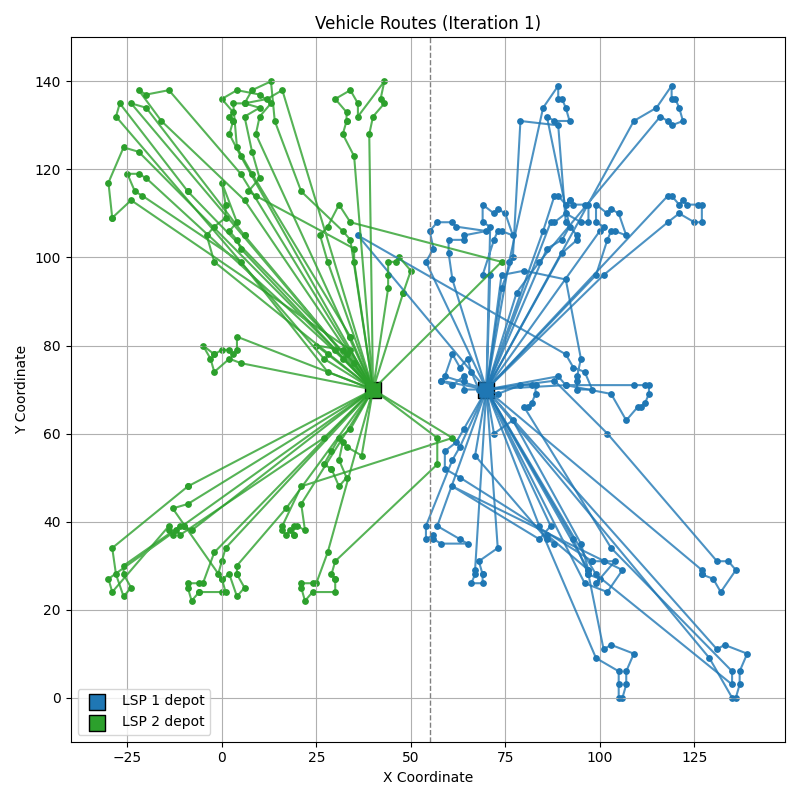
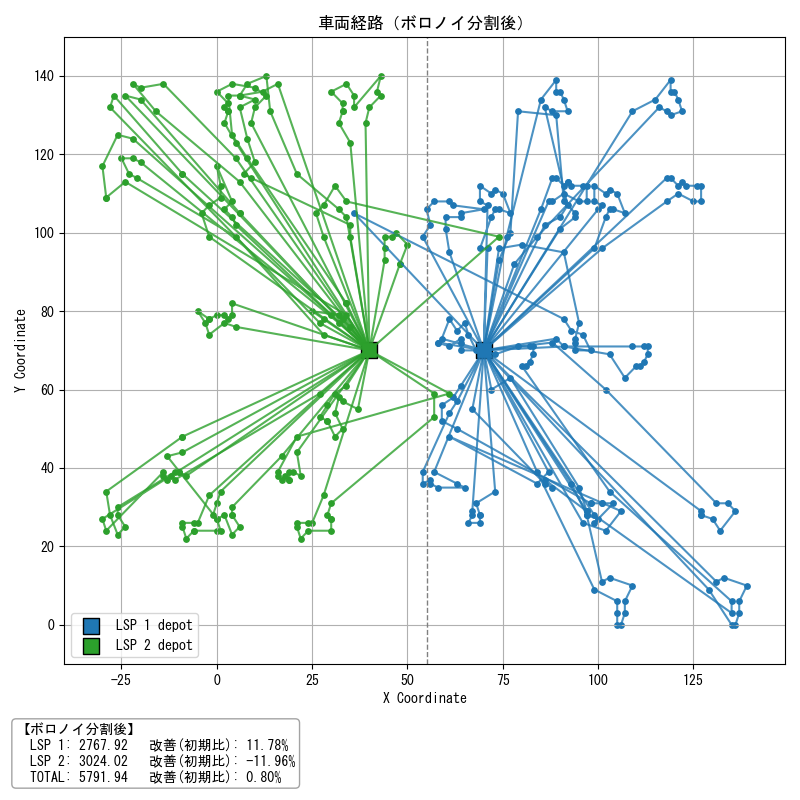
軽微な修正&実験

diff --git a/visualizer.py b/visualizer.py
@@ -1,7 +1,13 @@
 import matplotlib.pyplot as plt
 import numpy as np
 import os
-import shutil  # ★追加
+import shutil
+import json
+import math
+
+plt.rcParams['font.family'] = 'MS Gothic'  # Windowsの場合
+plt.rcParams['axes.unicode_minus'] = False
+plt.rcParams['font.monospace'] = ['MS Gothic']
 
 def plot_routes(customers, routes, depot_id_list, vehicle_num_list, iteration, instance_name="", output_dir="figures"):
     """
@@ -14,59 +20,97 @@ def plot_routes(customers, routes, depot_id_list, vehicle_num_list, iteration, i
     - instance_name: 実験インスタンス名（フォルダ作成用）
     """
 
-    # 各実験ごとにフォルダを作成
-    instance_folder = os.path.join(output_dir, instance_name)
+    # ====== 内部ユーティリティ ======
+    def route_cost(single_route, id2xy):
+        cost = 0.0
+        for k in range(len(single_route) - 1):
+            x1, y1 = id2xy[single_route[k]]
+            x2, y2 = id2xy[single_route[k + 1]]
+            cost += math.hypot(x2 - x1, y2 - y1)
+        return cost
 
-    # ★変更点: 初回保存（iteration==0）のときだけ既存フォルダを全消去→作り直し
+    def company_costs(all_routes, id2xy, veh_num_list):
+        costs = []
+        idx = 0
+        for n in veh_num_list:
+            s = 0.0
+            for _ in range(n):
+                s += route_cost(all_routes[idx], id2xy)
+                idx += 1
+            costs.append(s)
+        return costs, sum(costs)
+
+    def load_step_routes(step_index):
+        base = os.path.join("web_data", instance_name, f"step_{step_index}.json")
+        if not os.path.isfile(base):
+            return None
+        try:
+            with open(base, "r", encoding="utf-8") as f:
+                j = json.load(f)
+            id2 = {c["id"]: (c["x"], c["y"]) for c in j["customers"]}
+            comp_costs, total = company_costs(j["routes"], id2, j.get("vehicle_num_list", vehicle_num_list))
+            return {"company": comp_costs, "total": total}
+        except Exception:
+            return None
+
+    def fmt(v):
+        return f"{v:.2f}"
+
+    def pct(old, new):
+        if old and old > 0:
+            return f"{(old - new) / old * 100:.2f}%"
+        return "—"
+
+    # ====== フォルダ準備（初回のみ全消去） ======
+    instance_folder = os.path.join(output_dir, instance_name)
     if iteration == 0 and os.path.isdir(instance_folder):
         shutil.rmtree(instance_folder)
-
     os.makedirs(instance_folder, exist_ok=True)
 
-    # ID -> 座標辞書を作成
+    # ID -> 座標辞書
     id_to_coord = {c["id"]: (c["x"], c["y"]) for c in customers}
 
-    # 各LSPに異なる色を設定
+    # 色
     colors = ["tab:blue", "tab:green", "tab:red", "tab:orange", "tab:purple", "tab:brown"]
 
-    # 描画準備
+    # ====== 図のセットアップ ======
     plt.figure(figsize=(8, 8))
-    plt.title(f"Vehicle Routes (Iteration {iteration})")
+    if iteration == 0:
+        plt.title("車両経路（初期解）")
+    elif iteration == 1:
+        plt.title("車両経路（ボロノイ分割後）")
+    elif iteration == 2:
+        plt.title("車両経路（自社内GAT実行後）")
+    else:
+        plt.title(f"Vehicle Routes (Iteration {iteration})")
 
-    # --- 経路描画 ---
+    # 経路描画
     vehicle_index = 0
     for lsp_index, num_vehicles in enumerate(vehicle_num_list):
         color = colors[lsp_index % len(colors)]
         depot_id = depot_id_list[lsp_index]
         depot_x, depot_y = id_to_coord[depot_id]
-
-        # デポを描画
         plt.scatter(depot_x, depot_y, marker="s", c=color, s=120, edgecolor="black", label=f"LSP {lsp_index+1} depot")
 
-        # 各車両経路を描画
         for _ in range(num_vehicles):
             route = routes[vehicle_index]
             vehicle_index += 1
             if len(route) <= 2:
-                continue  # デポのみの車両をスキップ
+                continue
             xs = [id_to_coord[i][0] for i in route]
             ys = [id_to_coord[i][1] for i in route]
             plt.plot(xs, ys, color=color, alpha=0.8)
             plt.scatter(xs, ys, c=color, s=15)
 
-    # --- 等距離線の描画 ---
+    # 等距離線
     if len(depot_id_list) > 1:
         depot_coords = np.array([id_to_coord[d] for d in depot_id_list])
         x_vals = np.linspace(min(c["x"] for c in customers) - 10, max(c["x"] for c in customers) + 10, 300)
         y_vals = np.linspace(min(c["y"] for c in customers) - 10, max(c["y"] for c in customers) + 10, 300)
         X, Y = np.meshgrid(x_vals, y_vals)
-
-        # 各グリッド点から各デポまでの距離を計算
         distances = np.zeros((len(depot_coords), *X.shape))
         for i, (dx, dy) in enumerate(depot_coords):
             distances[i] = np.sqrt((X - dx)**2 + (Y - dy)**2)
-
-        # デポ間の等距離線を描画
         for i in range(len(depot_coords)):
             for j in range(i + 1, len(depot_coords)):
                 plt.contour(X, Y, distances[i] - distances[j], levels=[0], colors="gray", linestyles="--", linewidths=1)
@@ -77,9 +121,51 @@ def plot_routes(customers, routes, depot_id_list, vehicle_num_list, iteration, i
     plt.grid(True)
     plt.tight_layout()
 
-    # ファイル保存
+    # ====== メトリクス計算 ======
+    curr_company, curr_total = company_costs(routes, id_to_coord, vehicle_num_list)
+    init_metrics = load_step_routes(0)
+    voro_metrics = load_step_routes(1)
+
+    lines = []
+    if iteration == 0:
+        lines.append("【初期解】")
+        for i, c in enumerate(curr_company, 1):
+            lines.append(f"  LSP {i}: {fmt(c)}")
+        lines.append(f"  TOTAL: {fmt(curr_total)}")
+    elif iteration == 1:
+        lines.append("【ボロノイ分割後】")
+        for i, c in enumerate(curr_company, 1):
+            base = init_metrics["company"][i-1] if init_metrics else None
+            lines.append(f"  LSP {i}: {fmt(c)}   改善(初期比): {pct(base, c)}")
+        base_total = init_metrics["total"] if init_metrics else None
+        lines.append(f"  TOTAL: {fmt(curr_total)}   改善(初期比): {pct(base_total, curr_total)}")
+    elif iteration == 2:
+        lines.append("【自社内GAT後】")
+        for i, c in enumerate(curr_company, 1):
+            base_v = voro_metrics["company"][i-1] if voro_metrics else None
+            base_i = init_metrics["company"][i-1] if init_metrics else None
+            lines.append(f"    LSP {i}: {fmt(c)}   改善(ボロノイ比): {pct(base_v, c)}   改善(初期比): {pct(base_i, c)}")
+        base_total_v = voro_metrics["total"] if voro_metrics else None
+        base_total_i = init_metrics["total"] if init_metrics else None
+        lines.append(f"    TOTAL: {fmt(curr_total)}   改善(ボロノイ比): {pct(base_total_v, curr_total)}   改善(初期比): {pct(base_total_i, curr_total)}")
+
+    # ====== ★ここを変更：下部フッターに表示 ======
+    if lines:
+        text = "\n".join(lines)
+        fig = plt.gcf()
+        # 下に十分な余白（フッター）を確保（数値は必要に応じて微調整）
+        plt.subplots_adjust(bottom=0.17)
+        # 図座標（0～1）で左下寄せに描画
+        fig.text(
+            0.02, 0.02, text,
+            ha="left", va="bottom",
+            fontsize=10,
+            bbox=dict(boxstyle="round", facecolor="white", alpha=0.9, edgecolor="#999"),
+            family="monospace"
+        )
+
+    # 保存
     save_path = os.path.join(instance_folder, f"routes_iter_{iteration:02d}.png")
     plt.savefig(save_path)
     plt.close()
     print(f"✅図を保存しました: {save_path}")
-

diff --git a/main.py b/main.py
@@ -111,19 +111,18 @@ for case_index, (file_paths, offsets) in enumerate(test_cases, 1):
     routes = initialize_individual_vrps(
         all_customers, all_PD_pairs, num_lsps, vehicle_num_list, depot_id_list, vehicle_capacity=vehicle_capacity
     )
-    plot_routes(all_customers, routes, depot_id_list, vehicle_num_list, iteration=0, instance_name=instance_name)
     export_vrp_state(all_customers, routes, all_PD_pairs, 0, case_index=case_index,
                      depot_id_list=depot_id_list, vehicle_num_list=vehicle_num_list,
                      instance_name=instance_name, output_root="web_data")
-
+    plot_routes(all_customers, routes, depot_id_list, vehicle_num_list, iteration=0, instance_name=instance_name)
     # 初期コスト（会社別・総計）
     initial_company_costs = compute_company_costs(routes, all_customers, vehicle_num_list)
     initial_total_cost = sum(initial_company_costs)
-
     print("\n==== 初期経路：会社別コスト ====")
     for idx, c in enumerate(initial_company_costs, 1):
         print(f"LSP {idx}: {c:.2f}")
     print(f"TOTAL: {initial_total_cost:.2f}")
+
 
     # ==========================================
     # === Voronoi再配布 → 各社で一発最適化 ===
@@ -159,10 +158,10 @@ for case_index, (file_paths, offsets) in enumerate(test_cases, 1):
     print(f"{sign_total}{overall_improve_voronoi:.2f}% ( {initial_total_cost:.2f} → {voronoi_total_cost:.2f} )")
 
     # 可視化 & Web出力（Step 1 として保存）
-    plot_routes(all_customers, voronoi_routes, depot_id_list, vehicle_num_list, iteration=1, instance_name=instance_name)
     export_vrp_state(all_customers, voronoi_routes, all_PD_pairs, 1, case_index=case_index,
                      depot_id_list=depot_id_list, vehicle_num_list=vehicle_num_list,
                      instance_name=instance_name, output_root="web_data")
+    plot_routes(all_customers, voronoi_routes, depot_id_list, vehicle_num_list, iteration=1, instance_name=instance_name)
 
     # =======================================================
     # === 社内限定の GAT 改善（会社ごとに独立に繰り返し） ===
@@ -228,10 +227,10 @@ for case_index, (file_paths, offsets) in enumerate(test_cases, 1):
     print(f"{sign_total_gat}{overall_improve_gat:.2f}% ( {voronoi_total_cost:.2f} → {gat_total_cost:.2f} )")
 
     # 追加の可視化 & Web出力（Step 2 として保存）
-    plot_routes(all_customers, gat_final_routes, depot_id_list, vehicle_num_list, iteration=2, instance_name=instance_name)
     export_vrp_state(all_customers, gat_final_routes, all_PD_pairs, 2, case_index=case_index,
                      depot_id_list=depot_id_list, vehicle_num_list=vehicle_num_list,
                      instance_name=instance_name, output_root="web_data")
+    plot_routes(all_customers, gat_final_routes, depot_id_list, vehicle_num_list, iteration=2, instance_name=instance_name)
 
     # === React側へ今回のインスタンスだけ反映 ===
     generate_index_json(instance_name=instance_name, output_root="web_data", target_root="vrp-viewer/public/vrp_data")
